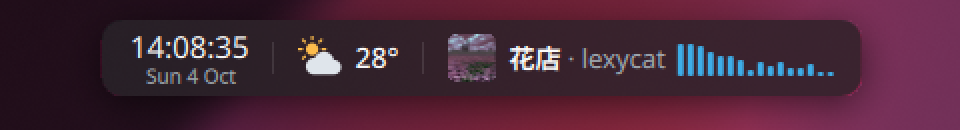
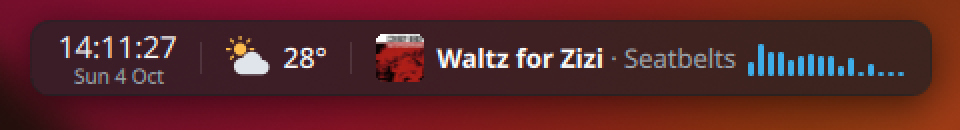
Glass Dock: no light rim between the glass and its shadow

diff --git a/glass-dock/Dock.qml b/glass-dock/Dock.qml
@@ -65,14 +65,15 @@ Window {
     LayerShell.Window.keyboardInteractivity: LayerShell.Window.KeyboardInteractivityNone
 
     function reshape() {
-        const rects = [Qt.rect(pill.x, pill.y, pillW, pillHeight)];
+        // the blur stops a pixel inside the glass too, for the same reason
+        const rects = [Qt.rect(pill.x + 1, pill.y + 1, pillW - 2, pillHeight - 2)];
         let bridge = Qt.rect(0, 0, 0, 0);
         if (open) {
-            rects.push(Qt.rect(panel.x, panel.y, panel.width, panel.height));
+            rects.push(Qt.rect(panel.x + 1, panel.y + 1, panel.width - 2, panel.height - 2));
             const l = Math.max(pill.x, panel.x), r = Math.min(pill.x + pillW, panel.x + panel.width);
             bridge = Qt.rect(l, pill.y + pillHeight, r - l, panelGap);
         }
-        Glass.shape(win, rects, 10, bridge);
+        Glass.shape(win, rects, 9, bridge);
     }
     onWidthChanged: Qt.callLater(reshape)
     onHeightChanged: Qt.callLater(reshape)
@@ -220,7 +221,8 @@ Window {
         Item {
             id: hole
             anchors.fill: parent; visible: false; layer.enabled: true
-            Rectangle { x: shade.reach; y: shade.reach; width: shade.of.width; height: shade.of.height; radius: 10 }
+            // a pixel inside the glass edge: cut flush, the two soft edges leave a light rim between them
+            Rectangle { x: shade.reach + 1; y: shade.reach + 1; width: shade.of.width - 2; height: shade.of.height - 2; radius: 9 }
         }
         MultiEffect { anchors.fill: parent; source: cast; maskEnabled: true; maskSource: hole; maskInverted: true }
     }
